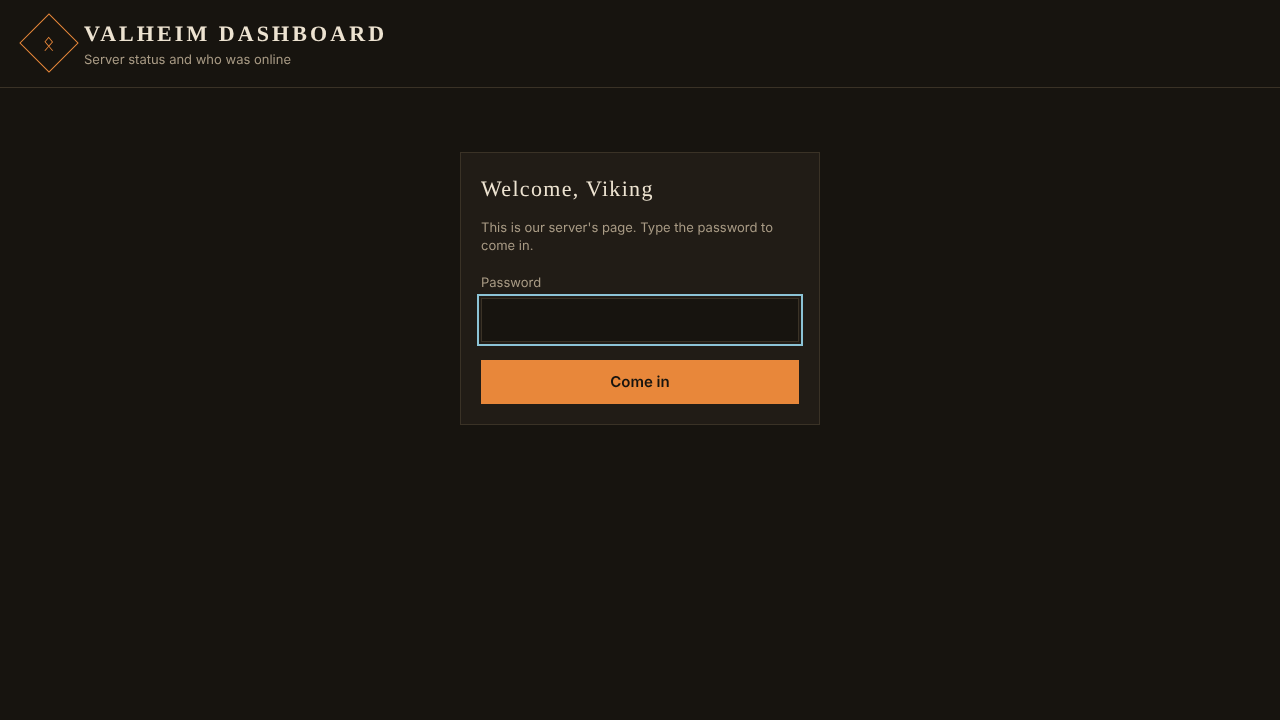
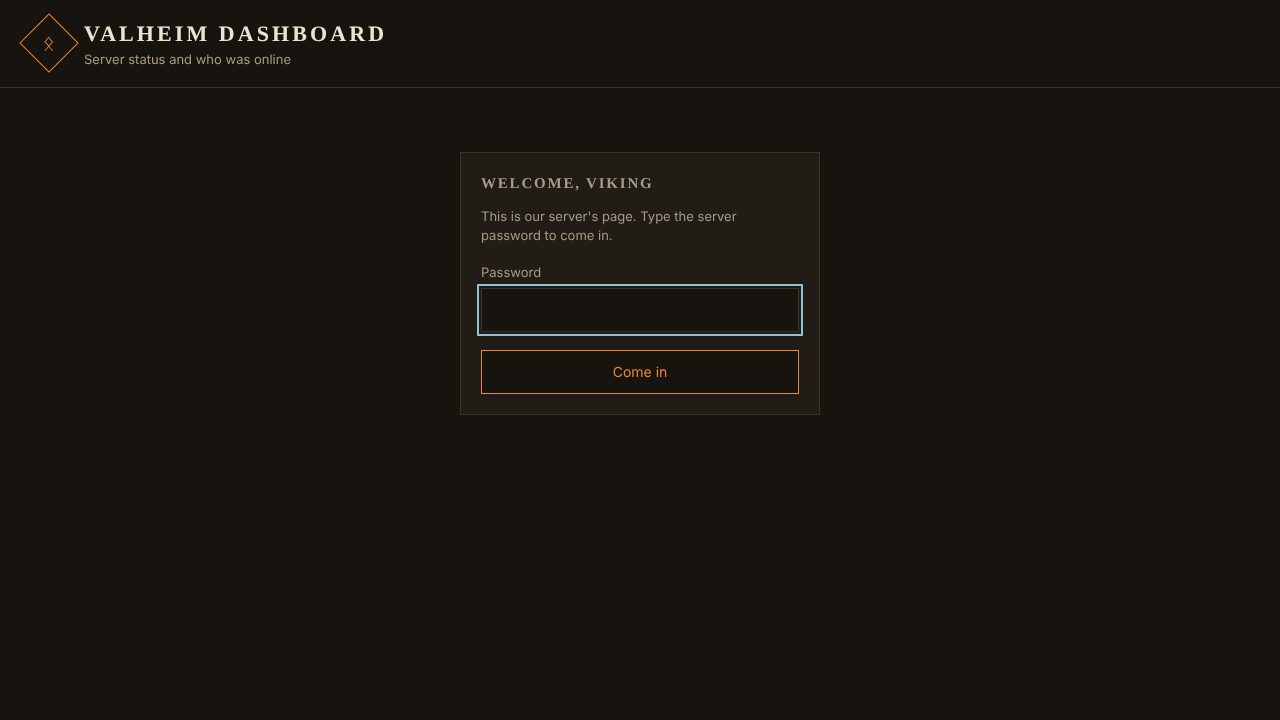
Make the password page a normal Svelte page in the dashboard layout

Changed region(s): [[0.375, 0.4583, 0.625, 0.5806], [0.375, 0.2444, 0.625, 0.4278]]

diff --git a/apps/dashboard/src/routes/password/+page.svelte b/apps/dashboard/src/routes/password/+page.svelte
@@ -1,0 +1,69 @@
+<script lang="ts">
+  /** Set after a wrong password. */
+  let { form }: { form: { isWrong: boolean } | null } = $props();
+</script>
+
+<main>
+  <form method="POST" class="panel">
+    <h1 class="panel-title">WELCOME, VIKING</h1>
+    <p class="muted">This is our server's page. Type the server password to come in.</p>
+    <label class="muted" for="password">Password</label>
+    <!-- svelte-ignore a11y_autofocus -->
+    <input id="password" name="password" type="password" autocomplete="current-password" required autofocus />
+    {#if form?.isWrong}
+      <p class="wrong" role="alert">That's not it. Try again, or ask whoever runs the server.</p>
+    {/if}
+    <button type="submit">Come in</button>
+  </form>
+</main>
+
+<style>
+  /* Form sits in the middle, under the header */
+  main {
+    display: flex;
+    justify-content: center;
+    padding: 64px 16px;
+  }
+
+  /* Narrow panel so the form reads as one short step */
+  form {
+    width: 100%;
+    max-width: 360px;
+    box-sizing: border-box;
+  }
+
+  /* Label above the field */
+  label {
+    display: block;
+    margin: 18px 0 6px;
+  }
+
+  /* Field and button match the Recipes form, 44px tall for touch */
+  input,
+  button {
+    width: 100%;
+    min-height: 44px;
+    box-sizing: border-box;
+    padding: 0 12px;
+    border: 1px solid var(--line);
+    background: var(--background);
+    color: var(--text);
+    font: inherit;
+    font-size: 14px;
+  }
+
+  /* Wrong password message in the warning color */
+  .wrong {
+    margin: 10px 0 0;
+    color: var(--blood);
+    font-size: 13px;
+  }
+
+  /* Come in is the main action, so it uses the accent like Add plan */
+  button {
+    margin-top: 18px;
+    border-color: var(--ember);
+    color: var(--ember);
+    cursor: pointer;
+  }
+</style>

diff --git a/apps/dashboard/src/routes/+layout.svelte b/apps/dashboard/src/routes/+layout.svelte
@@ -7,7 +7,7 @@
   import Header from '#/lib/components/Header';
   import SideMenu from '#/lib/components/SideMenu';
   import { connectLive, live, provideSnapshot } from '#/lib/live.svelte';
-  import type { Snapshot } from '#/lib/models';
+  import { PASSWORD_PATH, type Snapshot } from '#/lib/models';
   import { serverPill } from '#/lib/pills';
   import { isServerOnline, statusLine, viewerOffsetMinutes } from '#/lib/status';
   import { tabFor } from '#/lib/tabs';
@@ -28,25 +28,32 @@
         },
   );
 
+  /** True on the password page, which shows no tabs and no live data. */
+  const isPasswordPage = $derived(page.url.pathname === PASSWORD_PATH);
+
   provideSnapshot(() => snapshot);
-  onMount(connectLive);
+  onMount(() => (isPasswordPage ? undefined : connectLive()));
 
   /** Tab that matches the current address. */
   const current = $derived(tabFor(page.url.pathname));
 </script>
 
 <svelte:head>
-  <title>{current.label} · Valheim Dashboard</title>
+  <title>{isPasswordPage ? 'Password' : current.label} · Valheim Dashboard</title>
 </svelte:head>
 
 <Header {status} />
-<div class="frame">
-  <aside><SideMenu {current} /></aside>
-  <main>
-    <h1>{current.label}</h1>
-    {@render children()}
-  </main>
-</div>
+{#if isPasswordPage}
+  {@render children()}
+{:else}
+  <div class="frame">
+    <aside><SideMenu {current} /></aside>
+    <main>
+      <h1>{current.label}</h1>
+      {@render children()}
+    </main>
+  </div>
+{/if}
 
 <style>
   /* Menu beside the page; wraps so the menu sits on top on phones */

diff --git a/apps/dashboard/src/routes/password/+page.server.ts b/apps/dashboard/src/routes/password/+page.server.ts
@@ -1,0 +1,27 @@
+import { setTimeout } from 'node:timers/promises';
+
+import { fail, redirect } from '@sveltejs/kit';
+
+import { configuredPassword, isSameSecret, passwordToken } from '#/lib/server/access';
+import { PASSWORD_COOKIE, PASSWORD_COOKIE_SECONDS, WRONG_PASSWORD_DELAY_MS } from '#/lib/server/models';
+
+/** Checks the typed password, remembers it in a cookie and goes back to the page the friend wanted. */
+export const actions = {
+  default: async ({ request, cookies, url }) => {
+    const typed = String((await request.formData()).get('password') ?? '');
+    if (configuredPassword === null || !isSameSecret(typed, configuredPassword)) {
+      await setTimeout(WRONG_PASSWORD_DELAY_MS);
+      return fail(401, { isWrong: true });
+    }
+    cookies.set(PASSWORD_COOKIE, passwordToken(configuredPassword), {
+      path: '/',
+      httpOnly: true,
+      secure: true,
+      sameSite: 'lax',
+      maxAge: PASSWORD_COOKIE_SECONDS,
+    });
+    // Only addresses on this site, so a link cannot send a friend elsewhere.
+    const next = url.searchParams.get('next') ?? '/';
+    redirect(303, next.startsWith('/') && !next.startsWith('//') ? next : '/');
+  },
+};

diff --git a/apps/dashboard/src/routes/+layout.server.ts b/apps/dashboard/src/routes/+layout.server.ts
@@ -1,4 +1,11 @@
+import { PASSWORD_PATH } from '#/lib/models';
 import { currentSnapshot } from '#/lib/server/live';
+import { createServerState } from '#/lib/server/server-state';
 
-/** Gives every page the snapshot, so the first view has data before the live stream connects. */
-export const load = async () => ({ snapshot: await currentSnapshot() });
+/**
+ * Gives every page the snapshot, so the first view has data before the live stream connects. The password
+ * page gets an empty one, because whoever sees it has not typed the password yet.
+ */
+export const load = async ({ url }: { url: URL }) => ({
+  snapshot: url.pathname === PASSWORD_PATH ? createServerState(0).snapshot : await currentSnapshot(),
+});

diff --git a/apps/dashboard/src/hooks.server.ts b/apps/dashboard/src/hooks.server.ts
@@ -3,7 +3,8 @@ import type { Handle, ServerInit } from '@sveltejs/kit/hooks';
 
 import { checkAccess, configuredPassword } from '#/lib/server/access';
 import { startIconDownload } from '#/lib/server/icons';
-import { NO_PASSWORD_SET_TEXT, PASSWORD_COOKIE, PASSWORD_NEEDED_TEXT, PASSWORD_PATH } from '#/lib/server/models';
+import { PASSWORD_PATH } from '#/lib/models';
+import { NO_PASSWORD_SET_TEXT, PASSWORD_COOKIE, PASSWORD_NEEDED_TEXT } from '#/lib/server/models';
 
 /** Downloads any missing item icons when the dashboard starts. */
 export const init: ServerInit = () => {

diff --git a/apps/dashboard/src/lib/server/models.ts b/apps/dashboard/src/lib/server/models.ts
@@ -77,9 +77,6 @@ export const LOCAL_HOSTNAMES = ['localhost', '127.0.0.1', '[::1]'];
 /** Header a tunnel such as ngrok adds to every request it passes on. */
 export const FORWARDED_HEADER = 'x-forwarded-for';
 
-/** Address of the page where friends type the password. */
-export const PASSWORD_PATH = '/password';
-
 /** Cookie that remembers a friend typed the right password. */
 export const PASSWORD_COOKIE = 'dashboard_pass';
 

diff --git a/apps/dashboard/src/lib/models.ts b/apps/dashboard/src/lib/models.ts
@@ -23,6 +23,9 @@ export const TABS: readonly Tab[] = [
   { path: '/server', label: 'Server', hint: 'Status and warnings', rune: 'ᚾ' },
 ];
 
+/** Address of the page where friends type the password. */
+export const PASSWORD_PATH = '/password';
+
 /** Milliseconds in one minute. */
 export const MS_PER_MINUTE = 60_000;
 
